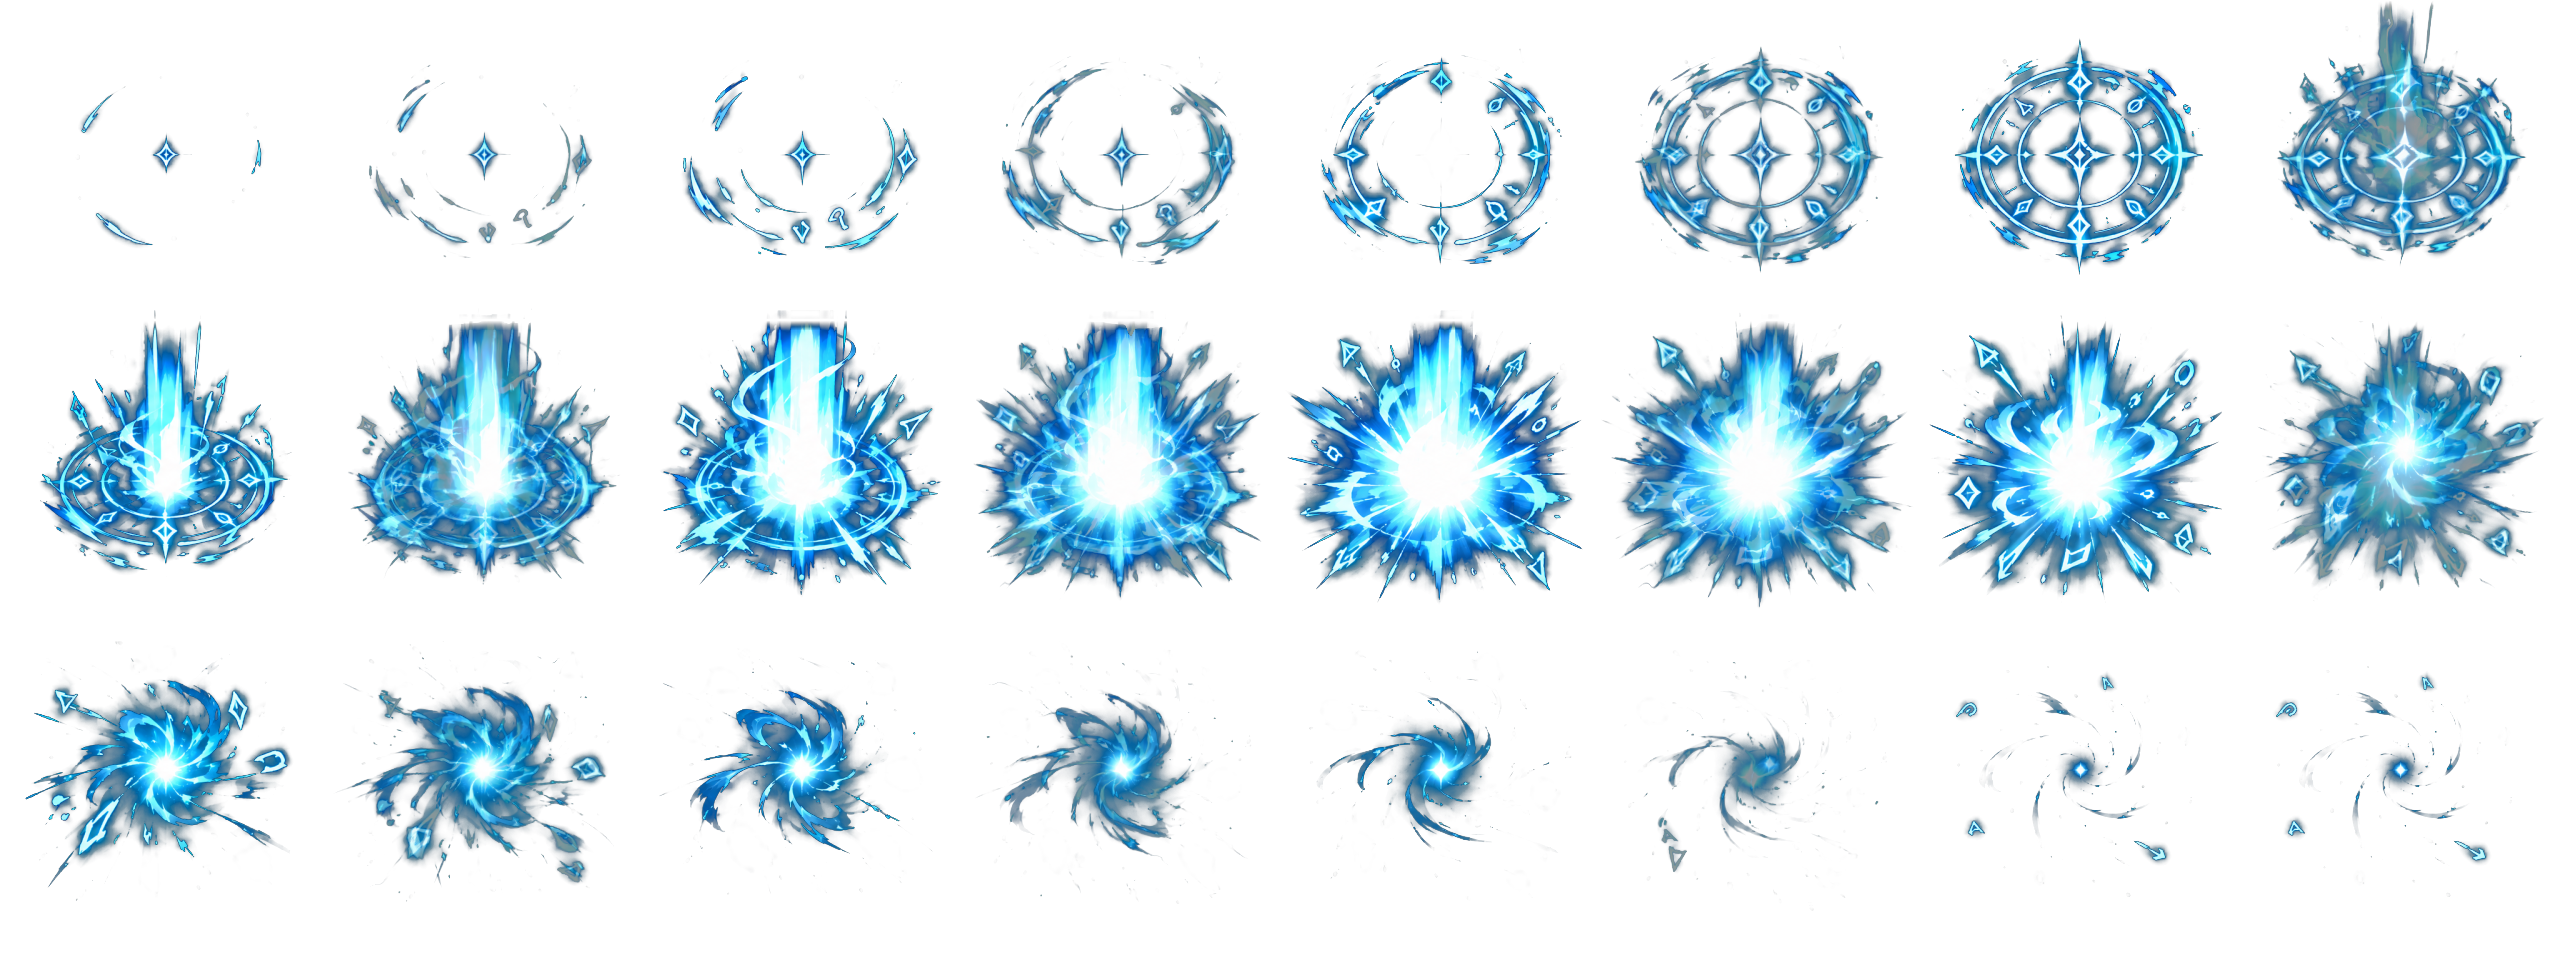
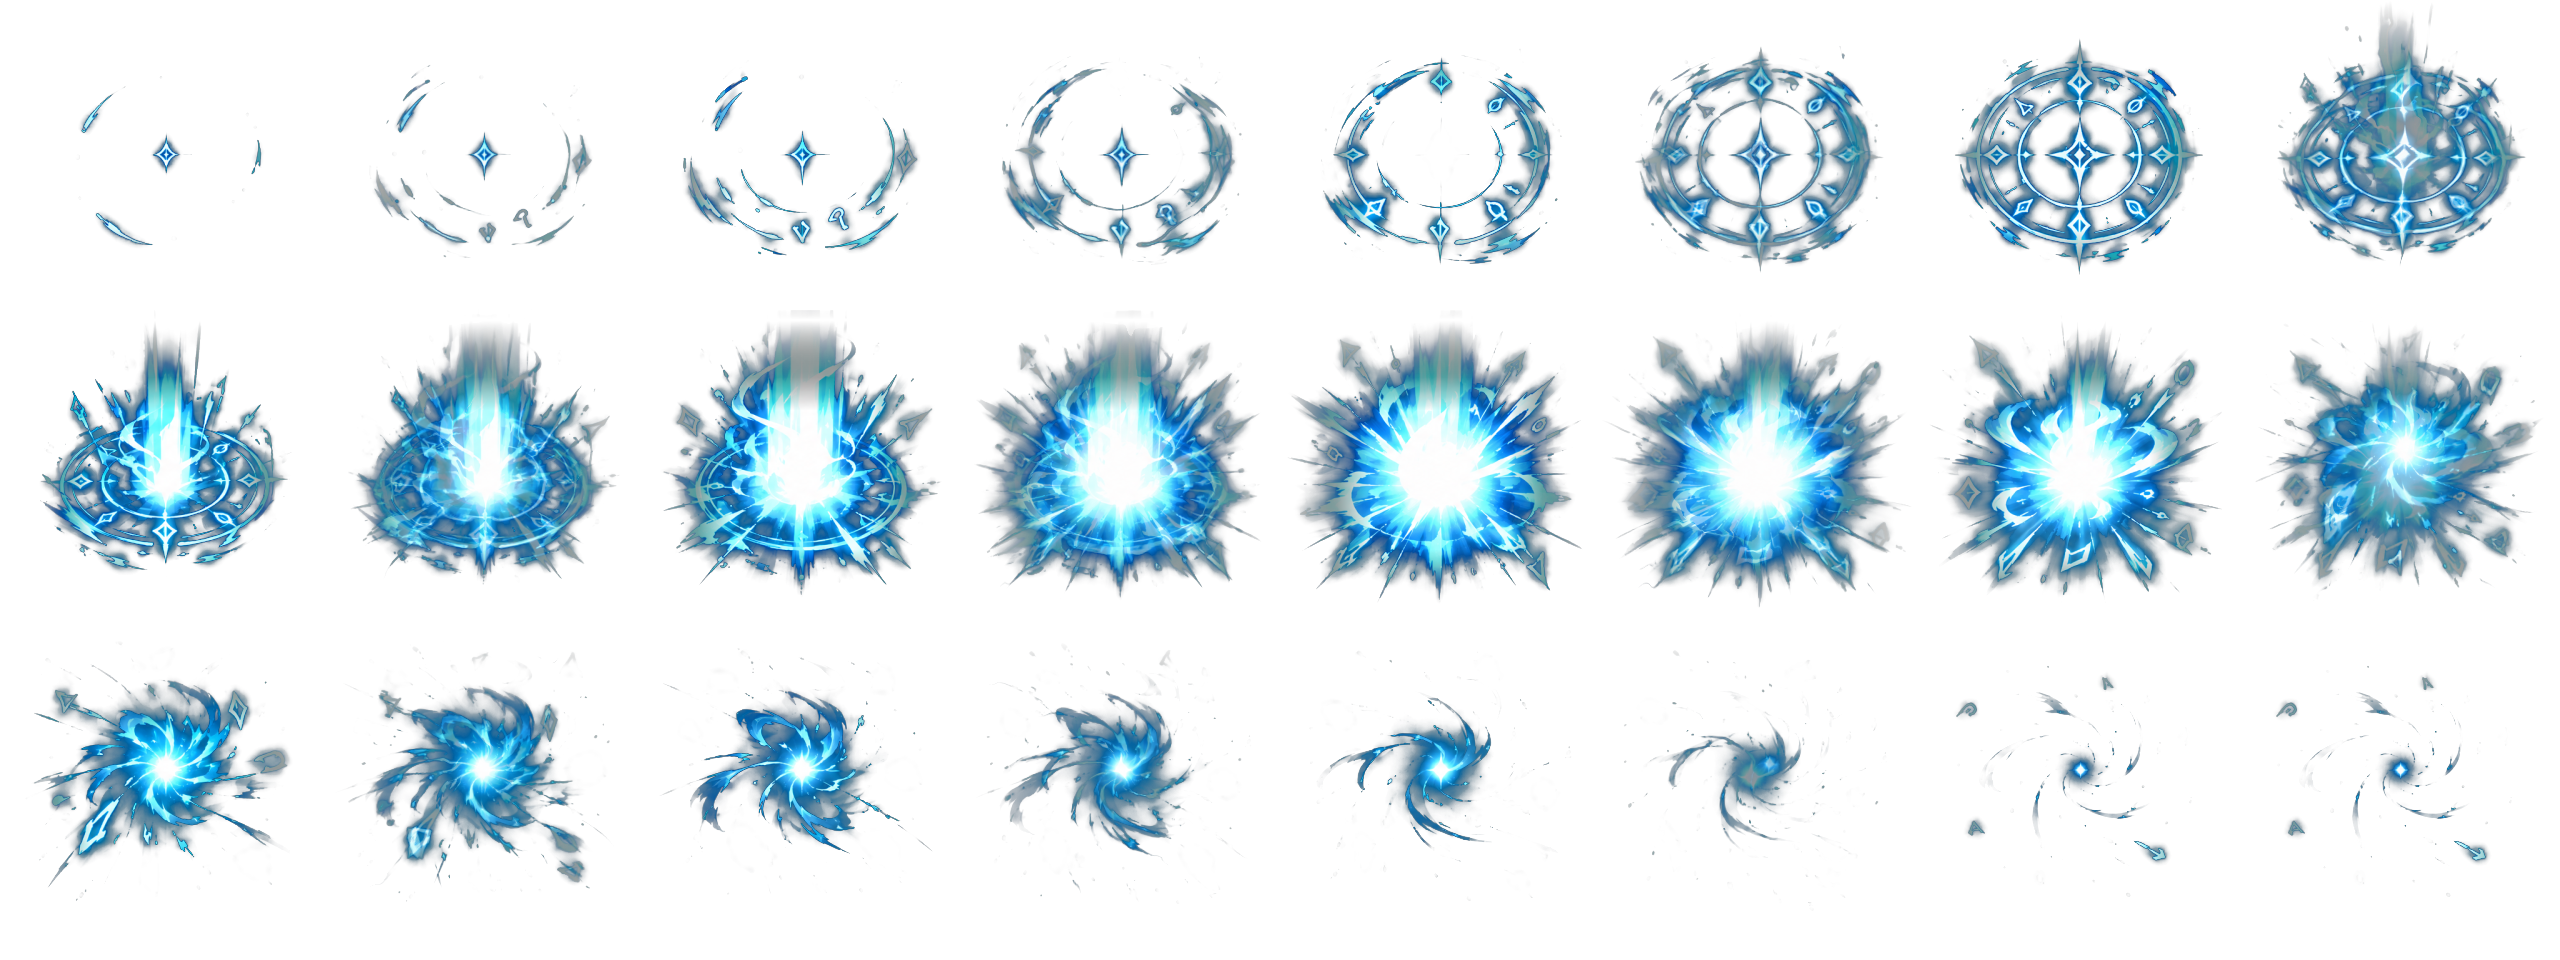
fix(vfx): runic blade sigil smaller (scale 2.4 to 1.9), soft cell border (no flat cut of the light pillar), drawn on the ground so the hero walking over it does not erase it; guard radius follows the wider ring
Claude-Session: https://claude.ai/code/session_01LtYADxbd84PVKV1bvjrnNH

diff --git a/tools/art/bake_vfx.py b/tools/art/bake_vfx.py
@@ -58,7 +58,7 @@ SHEETS_HD = {
     "rapier_slash": (2, 1.8, 1.3, 0.0, 0.16),
     "axe_slam": (1, 1.6, 2.4, 0.0, 0.32),
     "scythe_blade": (1, 1.8, 2.2, 0.0, 0.36),
-    "rune_sigil": (1, 1.6, 2.4, 0.0, 0.38),
+    "rune_sigil": (1, 1.6, 1.9, 0.0, 0.38),
     "rapier_prick": (1, 1.8, 2.0, 0.0, 0.15),
     "spear_pierce": (1, 1.8, 1.3, 0.0, 0.16),
     # fifth pass (2026-10-11): painted beams, chain bolt and meteor
@@ -97,6 +97,9 @@ NO_SPECKS = {"flame_wave", "iaido_line", "steel_slash", "fang_slash", "axe_slam"
              "meteor_fall", "meteor_impact"}
 # Sheets made of dark solid matter (rock): their dark pixels stay opaque instead of fading with their brightness.
 SOLID = {"meteor_fall", "meteor_impact"}
+# Wider fade at the cell border (px of the baked cell): the art reaches the edge of its cell and the
+# frame would show as a hard line (the sigil's light pillar was cut flat at the top).
+SOFT_MARGIN = {"rune_sigil": 90}
 SPECK_SIDE = 96  # masks are worked on at this size per frame
 SPECK_KEEP = 0.10  # a blob smaller than this share of the frame's biggest blob is a speck
 
@@ -226,7 +229,7 @@ def bake_sheet(name: str) -> None:
     out = Image.new("RGBA", image.size)
     pixels = out.load()
     ramp = 16.0 if name in SOLID else 60.0  # dark rock must be opaque, light is additive-like
-    margin = 10  # px faded to nothing at every cell border: no grid line or neighbour bleed
+    margin = SOFT_MARGIN.get(name, 10)  # px faded to nothing at every cell border: no grid line or neighbour bleed
     for y in range(height):
         fy = min(y % cell_h, cell_h - 1 - y % cell_h)
         for x in range(width):
